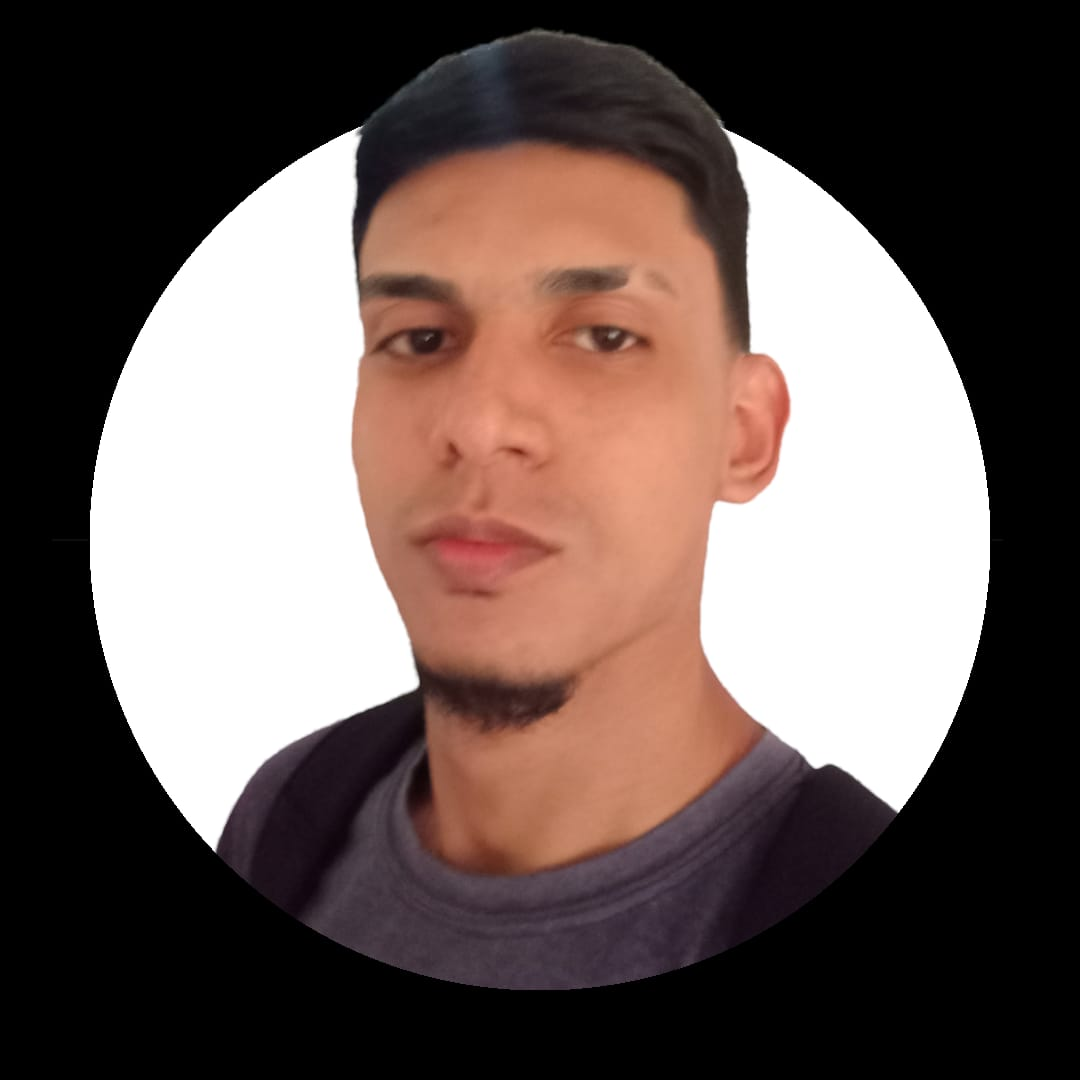
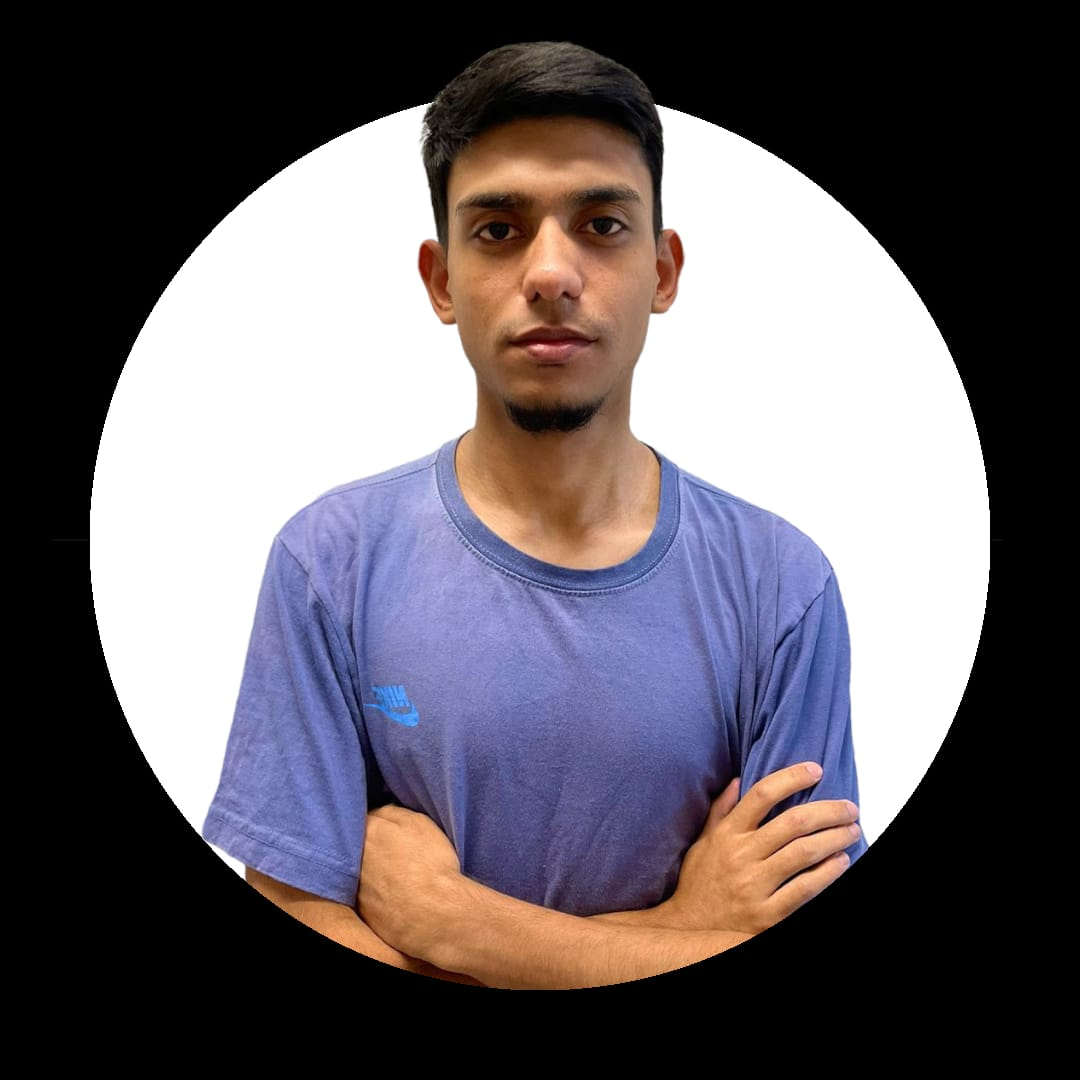
pequenos ajustes na seção equipe

diff --git a/html/sobre.html b/html/sobre.html
@@ -187,17 +187,17 @@
    <div class="owl-carousel owl-theme">
     <div class="item">
         <div class="card">
-            <img src="https://www.promoview.com.br/uploads/images/unnamed%2819%29.png" alt="Image"
+            <img src="/img/equipe/samuel-prado.jpg" alt="Image"
                 class="img">
             <div class="card_data">
                 <h6 class="title-card">
-                ????
+                Samuel Prado
                 </h6>
                 <div class="contact_data">
-                    <a href="#" class="contact_link">
+                    <a href="javascript:void(0)" class="contact_link">
                         <i class="fa-brands fa-instagram"></i>
                     </a>
-                    <a href="#" class="contact_link">
+                    <a href="javascript:void(0)" class="contact_link">
                         <i class="fa-brands fa-linkedin-in"></i>
                     </a>
                 </div>
@@ -207,17 +207,17 @@
     </div>
     <div class="item">
         <div class="card">
-            <img src="https://www.promoview.com.br/uploads/images/unnamed%2819%29.png" alt="Image"
+            <img src="/img/equipe/miguel.jpg" alt="Image"
                 class="img">
             <div class="card_data">
                 <h6 class="title-card">
-                  ????
+                  Miguel Millem
                 </h6>
                 <div class="contact_data">
-                    <a href="#" class="contact_link">
+                    <a href="javascript:void(0)" class="contact_link">
                         <i class="fa-brands fa-instagram"></i>
                     </a>
-                    <a href="#" class="contact_link">
+                    <a href="javascript:void(0)" class="contact_link">
                         <i class="fa-brands fa-linkedin-in"></i>
                     </a>
                 </div>
@@ -234,10 +234,10 @@
                     Wesley Gomes
                 </h6>
                 <div class="contact_data">
-                  <a href="https://www.instagram.com/wlgomes_1/" class="contact_link">
+                  <a href="javascript:void(0)" class="contact_link">
                       <i class="fa-brands fa-instagram"></i>
                   </a>
-                  <a href="https://www.linkedin.com/in/wesley-gomes1/" class="contact_link">
+                  <a href="https://www.linkedin.com/in/wesley-gomes1/" target="_blank" class="contact_link">
                       <i class="fa-brands fa-linkedin-in"></i>
                   </a>
               </div>
@@ -254,10 +254,10 @@
                   Maria Eduarda Barbosa
                 </h6>
                 <div class="contact_data">
-                    <a href="#" class="contact_link">
+                    <a href="javascript:void(0)" class="contact_link">
                         <i class="fa-brands fa-instagram"></i>
                     </a>
-                    <a href="#" class="contact_link">
+                    <a href="javascript:void(0)" class="contact_link">
                         <i class="fa-brands fa-linkedin-in"></i>
                     </a>
                 </div>
@@ -274,10 +274,10 @@
                   Maria Eduarda Ramos
                 </h6>
                 <div class="contact_data">
-                    <a href="#" class="contact_link">
+                    <a href="javascript:void(0)" class="contact_link">
                         <i class="fa-brands fa-instagram"></i>
                     </a>
-                    <a href="#" class="contact_link">
+                    <a href="javascript:void(0)" class="contact_link">
                         <i class="fa-brands fa-linkedin-in"></i>
                     </a>
                 </div>
@@ -294,10 +294,10 @@
                   Jhogenes Leonel
                 </h6>
                 <div class="contact_data">
-                    <a href="#" class="contact_link">
+                    <a href="javascript:void(0)" class="contact_link">
                         <i class="fa-brands fa-instagram"></i>
                     </a>
-                    <a href="#" class="contact_link">
+                    <a href="javascript:void(0)" class="contact_link">
                         <i class="fa-brands fa-linkedin-in"></i>
                     </a>
                 </div>
@@ -314,10 +314,10 @@
                   Myllena Borel
                 </h6>
                 <div class="contact_data">
-                    <a href="#" class="contact_link">
+                    <a href="javascript:void(0)" class="contact_link">
                         <i class="fa-brands fa-instagram"></i>
                     </a>
-                    <a href="#" class="contact_link">
+                    <a href="javascript:void(0)" class="contact_link">
                         <i class="fa-brands fa-linkedin-in"></i>
                     </a>
                 </div>
@@ -334,10 +334,10 @@
                 Danilo Ludugero
                 </h6>
                 <div class="contact_data">
-                    <a href="#" class="contact_link">
+                    <a href="javascript:void(0)" class="contact_link">
                         <i class="fa-brands fa-instagram"></i>
                     </a>
-                    <a href="#" class="contact_link">
+                    <a href="javascript:void(0)" class="contact_link">
                         <i class="fa-brands fa-linkedin-in"></i>
                     </a>
                 </div>
@@ -354,10 +354,10 @@
                 Samuel Manuel
                 </h6>
                 <div class="contact_data">
-                    <a href="#" class="contact_link">
+                    <a href="javascript:void(0)" class="contact_link">
                         <i class="fa-brands fa-instagram"></i>
                     </a>
-                    <a href="#" class="contact_link">
+                    <a href="javascript:void(0)" class="contact_link">
                         <i class="fa-brands fa-linkedin-in"></i>
                     </a>
                 </div>
@@ -374,10 +374,10 @@
                 Gabriel Batista
                 </h6>
                 <div class="contact_data">
-                    <a href="#" class="contact_link">
+                    <a href="javascript:void(0)" class="contact_link">
                         <i class="fa-brands fa-instagram"></i>
                     </a>
-                    <a href="#" class="contact_link">
+                    <a href="javascript:void(0)" class="contact_link">
                         <i class="fa-brands fa-linkedin-in"></i>
                     </a>
                 </div>
@@ -394,10 +394,10 @@
                 Valeska Pereira
               </h6>
               <div class="contact_data">
-                  <a href="#" class="contact_link">
+                  <a href="javascript:void(0)" class="contact_link">
                       <i class="fa-brands fa-instagram"></i>
                   </a>
-                  <a href="#" class="contact_link">
+                  <a href="javascript:void(0)" class="contact_link">
                       <i class="fa-brands fa-linkedin-in"></i>
                   </a>
               </div>
@@ -414,10 +414,10 @@
             Caike
           </h6>
           <div class="contact_data">
-              <a href="#" class="contact_link">
+              <a href="javascript:void(0)" class="contact_link">
                   <i class="fa-brands fa-instagram"></i>
               </a>
-              <a href="#" class="contact_link">
+              <a href="javascript:void(0)" class="contact_link">
                   <i class="fa-brands fa-linkedin-in"></i>
               </a>
           </div>
@@ -431,13 +431,13 @@
           class="img">
       <div class="card_data">
           <h6 class="title-card">
-            ????
+            João Pedro
           </h6>
           <div class="contact_data">
-              <a href="#" class="contact_link">
+              <a href="javascript:void(0)" class="contact_link">
                   <i class="fa-brands fa-instagram"></i>
               </a>
-              <a href="#" class="contact_link">
+              <a href="javascript:void(0)" class="contact_link">
                   <i class="fa-brands fa-linkedin-in"></i>
               </a>
           </div>
@@ -454,10 +454,10 @@
             Flavio Abreu
           </h6>
           <div class="contact_data">
-              <a href="#" class="contact_link">
+              <a href="javascript:void(0)" class="contact_link">
                   <i class="fa-brands fa-instagram"></i>
               </a>
-              <a href="#" class="contact_link">
+              <a href="javascript:void(0)" class="contact_link">
                   <i class="fa-brands fa-linkedin-in"></i>
               </a>
           </div>
